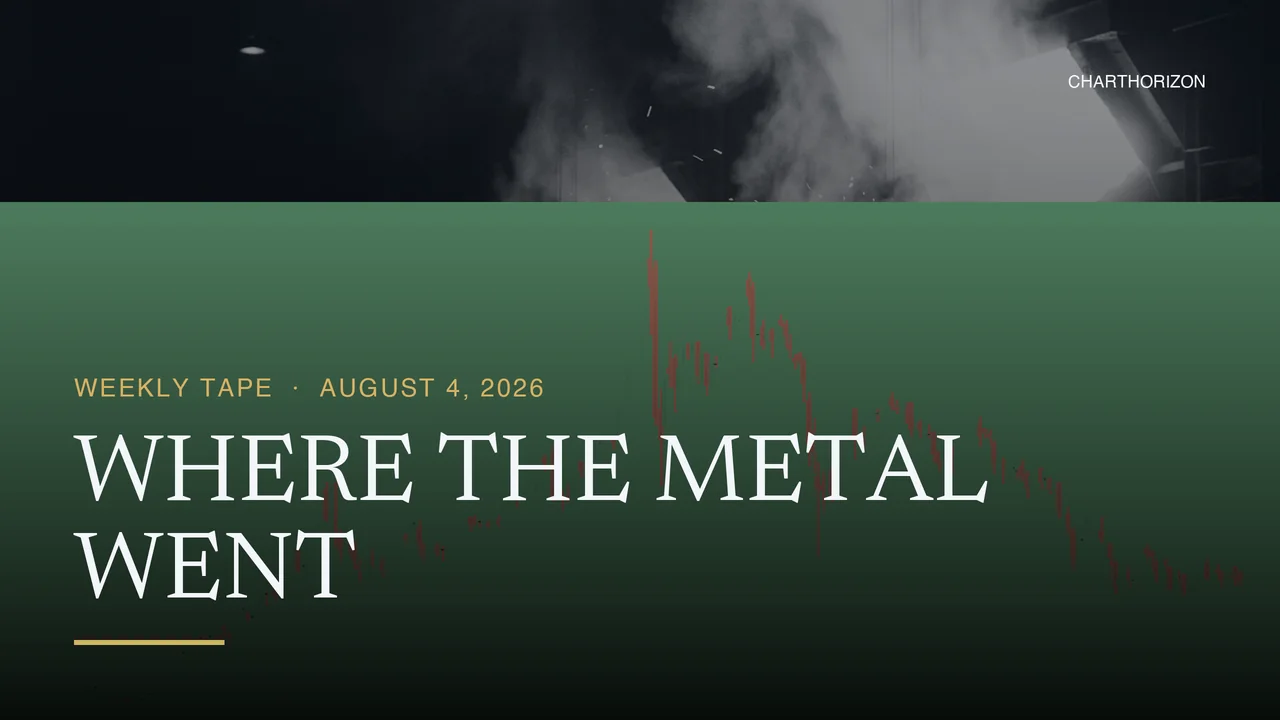
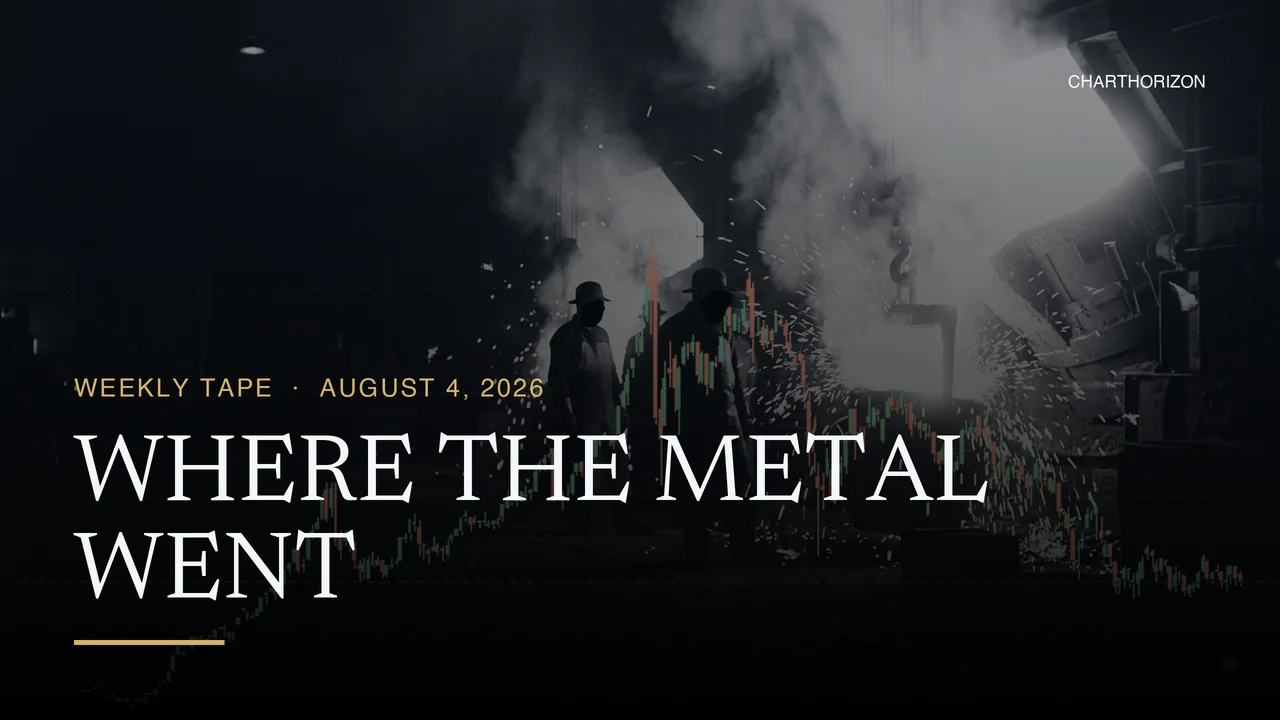
title_card: detect the chart's ground instead of assuming white
kursband() keyed ink against a fixed near-white threshold, so the one dark-ground
chart in the run (gold.png, exported after the site's own dark-theme rollout) had
almost its entire panel read as ink -- a solid colour wash burying the foundry motif
on the where-the-metal-went card. Sample the panel's own corners to detect which
ground a card was drawn on and key toward the ink in whichever direction applies.
The light-ground branch is untouched, so the other eight cards render byte-identical
to before this change.

diff --git a/docs/title_card.py b/docs/title_card.py
@@ -118,12 +118,29 @@ def kursband(img: Image.Image, chart: pathlib.Path) -> Image.Image:
 
     The card draws rising candles blue and falling ones red, so direction is
     recoverable from hue: compare the red and blue channels. Anything near the card's
-    white ground drops out, so only the trace survives."""
+    ground drops out, so only the trace survives.
+
+    The ground is DETECTED, not assumed white: the dashboard has a dark theme of its
+    own, so a chart card exported from it can arrive on navy instead of white. Keying
+    a fixed white threshold against a dark card reads almost the whole panel as ink —
+    that is exactly what shipped once, a solid colour wash burying the motif, on the
+    one dark-ground chart in a run of otherwise-white ones. The panel's own corners are
+    reliably background (candles run through the middle, not the edges), so sample
+    those to tell which ground this card was drawn on, then key toward the ink in
+    whichever direction applies. The light-ground branch is untouched from before this
+    check existed, so every existing white-ground card renders exactly as it always
+    has."""
     panel = price_panel(chart).convert("RGB")
     bh = int(H * BAND)
     panel = panel.resize((W, bh), Image.LANCZOS)
     r, _g, b = panel.split()
-    ink = panel.convert("L").point(lambda v: 0 if v > 220 else min(255, int((220 - v) * 2.6)))
+    gray = panel.convert("L")
+    corners = [gray.getpixel((x, y)) for x in (2, W - 3) for y in (2, bh - 3)]
+    ground = sum(corners) / len(corners)
+    if ground >= 128:
+        ink = gray.point(lambda v: 0 if v > 220 else min(255, int((220 - v) * 2.6)))
+    else:
+        ink = gray.point(lambda v: 0 if v < 35 else min(255, int((v - 35) * 2.6)))
     bear_sel = ImageChops.subtract(r, b, 1, 0).point(lambda v: 255 if v > 8 else 0)
     bull_sel = bear_sel.point(lambda v: 255 - v)
     out = img
